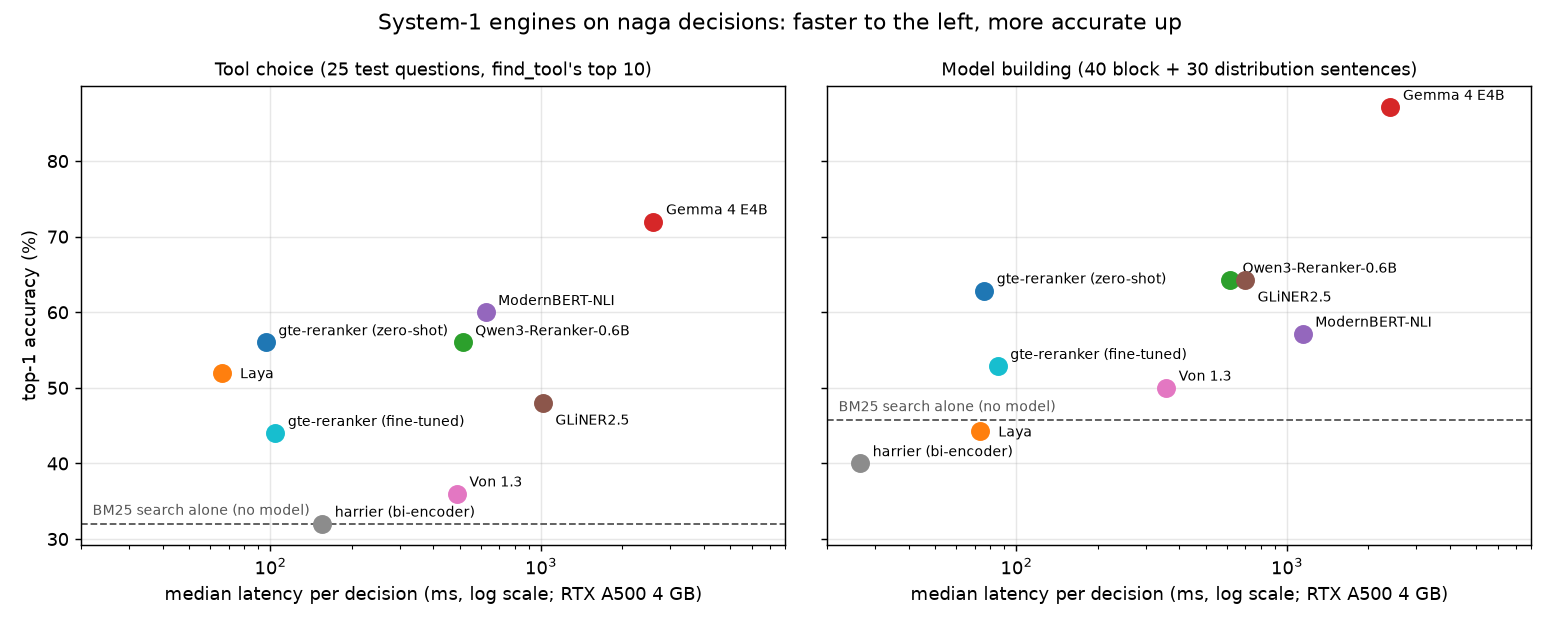
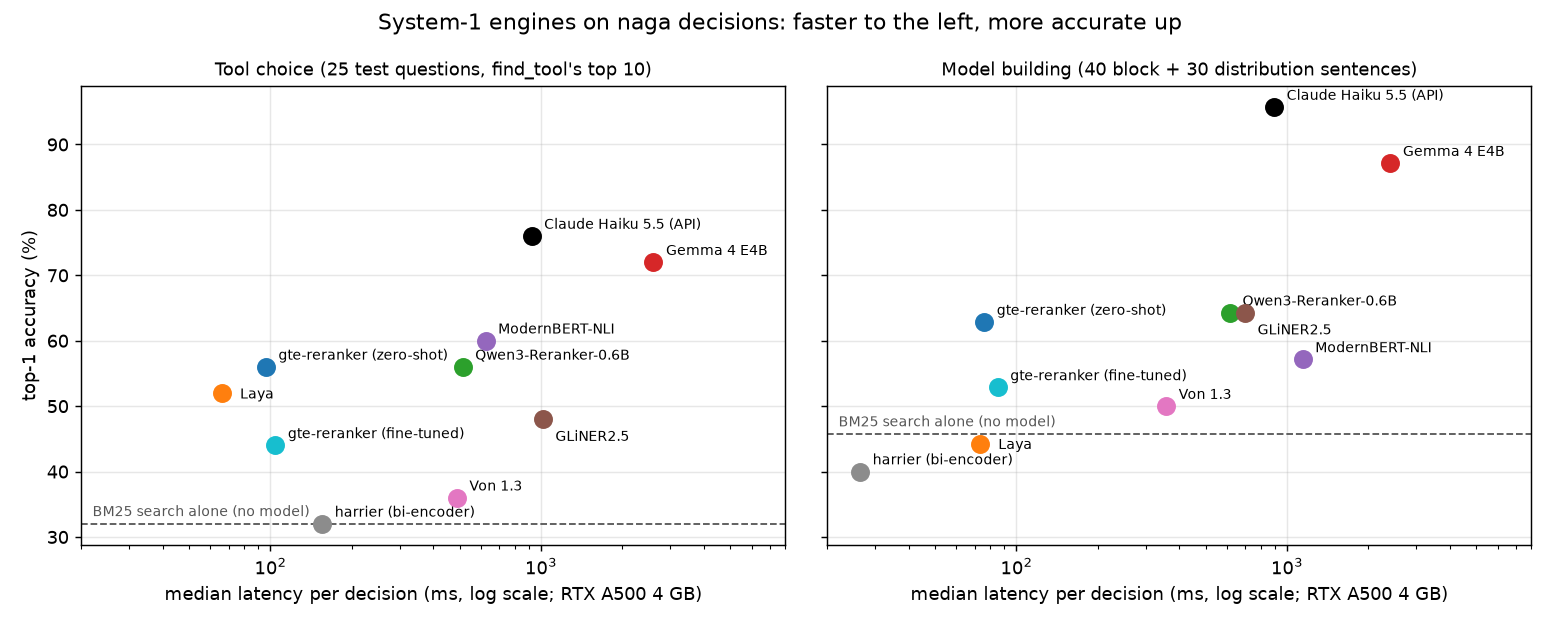
Study: Claude Haiku 5.5 as a hosted engine (eng_anthropic.py); it leads every task at about 0.9 s per decision

diff --git a/bench/naga/eng_anthropic.py b/bench/naga/eng_anthropic.py
@@ -1,0 +1,61 @@
+"""A hosted Claude model as the engine (Anthropic API): `python eng_anthropic.py haiku`.
+
+Same item, same options and documents, same one instruction (common.question) as every other engine. The
+model answers through one forced tool call with its three best option names in order, so top-1 and top-3
+score like the others and a plain retry is the next name (the retry rule of the bench). All options go
+as they are: no shortlist, the 90 tool documents fit in one prompt. The options block is cached, so
+the 79 queries over the same 90 tools pay for it once.
+
+Needs the `anthropic` package and ANTHROPIC_API_KEY. On Windows the key may live in the user's
+environment only (setx, before the shell started); it is read from there too, never written anywhere."""
+import os
+import sys
+
+import common
+
+MODELS = {"haiku": "claude-haiku-5-5", "sonnet": "claude-sonnet-5-5"}
+
+
+def _key() -> str:
+    key = os.environ.get("ANTHROPIC_API_KEY")
+    if not key and sys.platform == "win32":
+        import winreg
+        try:
+            with winreg.OpenKey(winreg.HKEY_CURRENT_USER, "Environment") as k:
+                key = winreg.QueryValueEx(k, "ANTHROPIC_API_KEY")[0]
+        except OSError:
+            key = None
+    if not key:
+        raise SystemExit("ANTHROPIC_API_KEY is not set")
+    return key
+
+
+def make(model: str):
+    import anthropic
+    client = anthropic.Anthropic(api_key=_key(), max_retries=6)
+
+    def decide(it):
+        opts = it["options"]
+        listing = "\n".join(f"- {it['docs'][o]}" for o in opts)
+        tool = {"name": "choose", "description": "Give the best options, best first.",
+                "input_schema": {"type": "object", "required": ["ranking"], "properties": {
+                    "ranking": {"type": "array", "minItems": 1, "maxItems": 3,
+                                "items": {"type": "string", "enum": list(opts)},
+                                "description": "Up to three option names, best first."}}}}
+        r = client.messages.create(
+            model=model, max_tokens=200, tools=[tool],
+            tool_choice={"type": "tool", "name": "choose"},
+            system=[{"type": "text", "text": f"{common.question(it)}\nOptions (name: what it is):\n{listing}",
+                     "cache_control": {"type": "ephemeral"}}],
+            messages=[{"role": "user", "content": it["text"]}])
+        ranking = next(b.input["ranking"] for b in r.content if b.type == "tool_use")
+        u = r.usage
+        return {"ranking": [x for x in ranking if x in opts], "confidence": 0.0,
+                "tokens_in": u.input_tokens + (u.cache_read_input_tokens or 0) + (u.cache_creation_input_tokens or 0),
+                "tokens_out": u.output_tokens}
+    return decide
+
+
+if __name__ == "__main__":
+    name = sys.argv[1]
+    common.run(name, make(MODELS[name]))

diff --git a/bench/naga/report2.py b/bench/naga/report2.py
@@ -7,7 +7,7 @@ from pathlib import Path
 HERE = Path(__file__).resolve().parent
 R1, R2 = HERE / "results", HERE / "results2"
 START, END = "<!-- r2:start -->", "<!-- r2:end -->"
-ORDER = ["baseline", "harrier-bi", "gte-rerank", "qwen3-rerank", "nli", "gliner2", "laya", "von", "gemma4", "tuned"]
+ORDER = ["baseline", "harrier-bi", "gte-rerank", "qwen3-rerank", "nli", "gliner2", "laya", "von", "gemma4", "tuned", "haiku"]
 
 
 def load(d, engine, task):
@@ -38,6 +38,8 @@ def main_tables():
                 note = ""
                 if task == "Tall" and e in ("laya", "gemma4"):
                     note = "harrier top 20 as options"
+                if e == "haiku":
+                    note = "hosted (Anthropic API), all options"
                 if r and any("error" in x for x in r):
                     note += f" {sum('error' in x for x in r)} errors"
                 out.append(f"| {e} | {n(r,1,'TRAIN')} | {n(r,3,'TRAIN')} | {n(r,1,'TEST')} | {n(r,3,'TEST')} | {ms(r)} | {note.strip()} |")
@@ -48,7 +50,7 @@ def main_tables():
             r2 = load(R2, e, task)
             if r2:
                 r1 = load(R1, e, task)
-                note = ("shortlist: harrier top 20" if e in ("laya", "gemma4") else "all labels" if e == "von" else "")
+                note = ("shortlist: harrier top 20" if e in ("laya", "gemma4") else "all labels" if e in ("von", "haiku") else "")
                 out.append(f"| {e} | {n(r1,1) if r1 else '-'} | {n(r1,3) if r1 else '-'} | {n(r2,1)} | {n(r2,3)} | {ms(r2)} | {note} |")
         out.append("")
     return "\n".join(out)

diff --git a/bench/naga/plot.py b/bench/naga/plot.py
@@ -18,10 +18,10 @@ HERE = Path(__file__).resolve().parent
 R2 = HERE / "results2"
 OUT = HERE.parents[1] / "docs" / "screenshots"
 COLORS = {"harrier-bi": "#8c8c8c", "gte-rerank": "#1f77b4", "qwen3-rerank": "#2ca02c", "nli": "#9467bd", "gliner2": "#8c564b",
-          "laya": "#ff7f0e", "von": "#e377c2", "gemma4": "#d62728", "tuned": "#17becf"}
+          "laya": "#ff7f0e", "von": "#e377c2", "gemma4": "#d62728", "tuned": "#17becf", "haiku": "#000000"}
 LABELS = {"gte-rerank": "gte-reranker (zero-shot)", "qwen3-rerank": "Qwen3-Reranker-0.6B", "gemma4": "Gemma 4 E4B", "laya": "Laya",
           "tuned": "gte-reranker (fine-tuned)", "harrier-bi": "harrier (bi-encoder)", "nli": "ModernBERT-NLI", "gliner2": "GLiNER2.5",
-          "von": "Von 1.3"}
+          "von": "Von 1.3", "haiku": "Claude Haiku 5.5 (API)"}
 
 
 # Label offsets (points) where two engines sit almost on top of each other.

diff --git a/docs/studies/naga-decisions.md b/docs/studies/naga-decisions.md
@@ -1,6 +1,6 @@
 # Which System-1 model for naga decisions?
 
-This study compares ten ways of making the small, frequent decisions an assistant faces while it drives the [naga](https://github.com/TheMattHub/naga) simulation engine, so you can pick the model that fits your own mix of speed, accuracy and hardware. Every number comes from [bench/naga/RESULTS.md](../../bench/naga/RESULTS.md), and the raw per-decision results sit next to it. The short answer is in [Which model should I pick](#which-model-should-i-pick); the sections before it say how far to trust it.
+This study compares eleven ways of making the small, frequent decisions an assistant faces while it drives the [naga](https://github.com/TheMattHub/naga) simulation engine, so you can pick the model that fits your own mix of speed, accuracy and hardware. Every number comes from [bench/naga/RESULTS.md](../../bench/naga/RESULTS.md), and the raw per-decision results sit next to it. The short answer is in [Which model should I pick](#which-model-should-i-pick); the sections before it say how far to trust it.
 
 ![Accuracy against median latency, per engine](../screenshots/hero.png)
 
@@ -26,7 +26,7 @@ Round 2 reran everything after naga's block and distribution descriptions were m
 
 ## Engines and hardware
 
-All runs used one laptop with an RTX A500 (4 GB), seed 0, and the wall-clock time per decision as latency. Licences and sizes are from each model card or repository (checked 2026-10-20).
+All local runs used one laptop with an RTX A500 (4 GB), seed 0, and the wall-clock time per decision as latency; Haiku's latency is the API round trip from that laptop. Licences and sizes are from each model card or repository (checked 2026-10-20).
 
 | Engine | Model | Size | Licence | How it was used |
 |---|---|---|---|---|
@@ -40,6 +40,7 @@ All runs used one laptop with an RTX A500 (4 GB), seed 0, and the wall-clock tim
 | von | Von 1.3 (`von-sdk`, github.com/wfzyx/von) | not stated | Apache-2.0 (repository) | criteria as `{label: document}` |
 | gemma4 | `unsloth/gemma-4-E4B-it-GGUF` (Q4_K_M of `google/gemma-4-E4B-it`) | 8.0B with embeddings ("E4B") | Apache-2.0 (model card tag) | through Ollama; options as letters, one letter back, probabilities from logprobs |
 | tuned | gte-reranker fine-tuned by us | 150M | Apache-2.0 | listwise loss on T TRAIN; not published |
+| haiku | Claude Haiku 5.5 (`claude-haiku-5-5`, Anthropic API) | not published | commercial API | hosted; every option with its document in one cached prompt, its three best names back through one forced tool call |
 
 Dropped for time or licence: a second LLM (Qwen3-4B), `jina-reranker` (non-commercial licence) and other embedding models. Naga itself uses `gte-reranker-modernbert-base` as an optional tool picker, off by default.
 
@@ -74,6 +75,7 @@ Fuller descriptions lifted the encoders on model building a lot and left tool ch
 | von | 9 / 16 | 488 | 2 / 8 | 17361 |
 | gemma4 | 18 / 19 | 2604 | 19 / 19 | 3042 |
 | tuned | 11 / 17 | 104 | 11 / 16 | 1067 |
+| haiku | 19 / 19 | 923 | 22 / 23 | 964 |
 
 Over all 90 tools top-3 rises for the fast rerankers (gte 17 to 19, qwen3 19 to 22), because the six questions that `find_tool`'s top 10 misses become reachable. Top-1 stays flat, TRAIN top-1 falls (gte 42 to 39, qwen3 44 to 40), and latency grows tenfold or more.
 
@@ -91,8 +93,13 @@ Over all 90 tools top-3 rises for the fast rerankers (gte 17 to 19, qwen3 19 to 
 | von | 23 to 22 | 356 | 8 to 13 | 359 |
 | gemma4 | 33 to 34 | 2455 | 28 to 27 | 2316 |
 | tuned | 13 to 21 | 83 | 11 to 16 | 113 |
+| haiku | - to 37 | 906 | - to 30 | 876 |
 
 Laya and Gemma saw the harrier top 20 as a shortlist; Von saw all labels. Gemma made one format error on tool choice (it answered "I" instead of a letter), counted as a miss.
+
+## A hosted model
+
+A small hosted model beat every local engine on every task, at under a second per decision. Claude Haiku 5.5 (run 2026-10-20, round 2 only) got 22 of 25 tool questions right over all 90 tools, 37 of 40 blocks and all 30 distributions, against Gemma's 19, 34 and 27; over `find_tool`'s top 10 it reached the ceiling of 19. It read about 2,000 prompt tokens per decision (12,400 over all 90 tools, most of them cached across questions) and wrote about 50. The price is a network call: every request goes to Anthropic, it needs an API key and a connection, and it is billed per token, so it suits a hosted assistant better than an offline one.
 
 ## Retries
 
@@ -117,11 +124,12 @@ Pick by the cost of a wrong answer and of waiting. All times are medians per dec
 | You need | Pick | What you get | Trade-off |
 |---|---|---|---|
 | Fast | `Alibaba-NLP/gte-reranker-modernbert-base`, zero-shot | tool choice 14/25 at 96 ms; blocks 25/40 at 75 ms; distributions 19/30 at 91 ms | Laya is faster on tool choice only; no faster engine matches it on model building |
-| Most accurate | Gemma 4 E4B (Q4_K_M via Ollama) | tool choice 18/25 (19/25 over all 90), blocks 34/40, distributions 27/30 | 2.3 to 3 s per decision; one format error in 25 tool questions |
+| Most accurate, local | Gemma 4 E4B (Q4_K_M via Ollama) | tool choice 18/25 (19/25 over all 90), blocks 34/40, distributions 27/30 | 2.3 to 3 s per decision; one format error in 25 tool questions |
 | In the middle | `Qwen/Qwen3-Reranker-0.6B` | tool choice 14/25 top-1 and 19/25 top-3 at 0.5 s; blocks 24/40 and distributions 21/30 at 0.6 to 0.75 s | Over all 90 tools it takes 5.4 s |
+| Most accurate, hosted | Claude Haiku 5.5 through the Anthropic API | tool choice 22/25 over all 90 (19/25 over the top 10, the ceiling); blocks 37/40; distributions 30/30; about 0.9 s | Needs an API key and a network; requests leave your machine; billed per token |
 | Tool choice only | Laya `typed-decisions` | 13/25 over `find_tool`'s top 10 (16/25 over all 90 with a shortlist) at 66 ms | Weak on model building (blocks 18/40, distributions 13/30); at most 20 options |
 
-If a wrong pick is cheap to catch and retry, the fast model closes part of the gap (see Retries); if it is expensive, take Gemma.
+If a wrong pick is cheap to catch and retry, the fast model closes part of the gap (see Retries); if it is expensive, take Haiku when a hosted call is acceptable and Gemma when it is not.
 
 ## Caveats
 

diff --git a/bench/naga/RESULTS.md b/bench/naga/RESULTS.md
@@ -98,6 +98,7 @@ Fuller block and distribution descriptions (naga after the fuller-descriptions c
 | von | 24/54 | 42/54 | 9/25 | 16/25 | 488 |  |
 | gemma4 | 48/54 | 52/54 | 18/25 | 19/25 | 2604 | 1 errors |
 | tuned | 54/54 | 54/54 | 11/25 | 17/25 | 104 |  |
+| haiku | 50/54 | 52/54 | 19/25 | 19/25 | 923 | hosted (Anthropic API), all options |
 
 #### T, mode all (all 90 tools)
 
@@ -113,6 +114,7 @@ Fuller block and distribution descriptions (naga after the fuller-descriptions c
 | von | 4/54 | 16/54 | 2/25 | 8/25 | 17361 |  |
 | gemma4 | 44/54 | 47/54 | 19/25 | 19/25 | 3042 | harrier top 20 as options |
 | tuned | 54/54 | 54/54 | 11/25 | 16/25 | 1067 |  |
+| haiku | 44/54 | 47/54 | 22/25 | 23/25 | 964 | hosted (Anthropic API), all options |
 
 #### B: blocks
 
@@ -128,6 +130,7 @@ Fuller block and distribution descriptions (naga after the fuller-descriptions c
 | von | 23/40 | 29/40 | 22/40 | 30/40 | 356 | all labels |
 | gemma4 | 33/40 | 36/40 | 34/40 | 36/40 | 2455 | shortlist: harrier top 20 |
 | tuned | 13/40 | 24/40 | 21/40 | 32/40 | 83 |  |
+| haiku | - | - | 37/40 | 37/40 | 906 | all labels |
 
 #### B: distributions
 
@@ -143,6 +146,7 @@ Fuller block and distribution descriptions (naga after the fuller-descriptions c
 | von | 8/30 | 19/30 | 13/30 | 21/30 | 359 | all labels |
 | gemma4 | 28/30 | 29/30 | 27/30 | 29/30 | 2316 | shortlist: harrier top 20 |
 | tuned | 11/30 | 18/30 | 16/30 | 23/30 | 113 |  |
+| haiku | - | - | 30/30 | 30/30 | 876 | all labels |
 
 ## Round 2, retries
 
